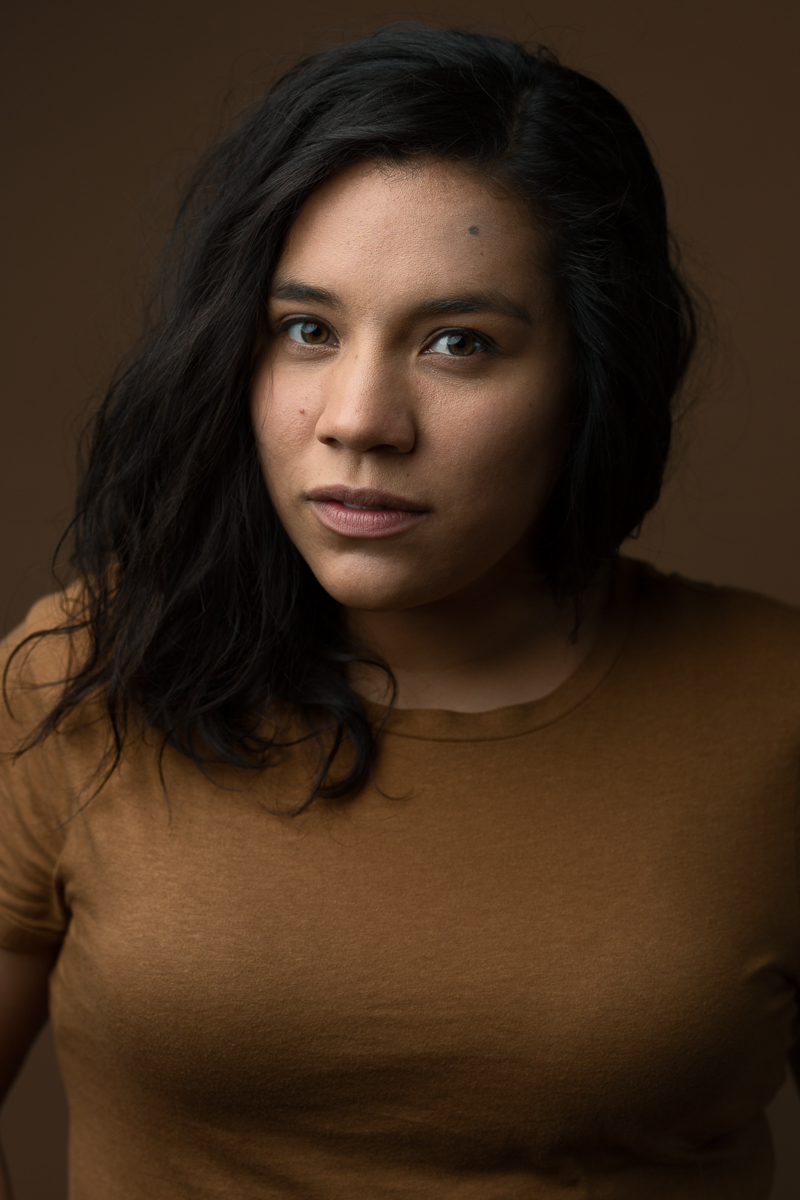
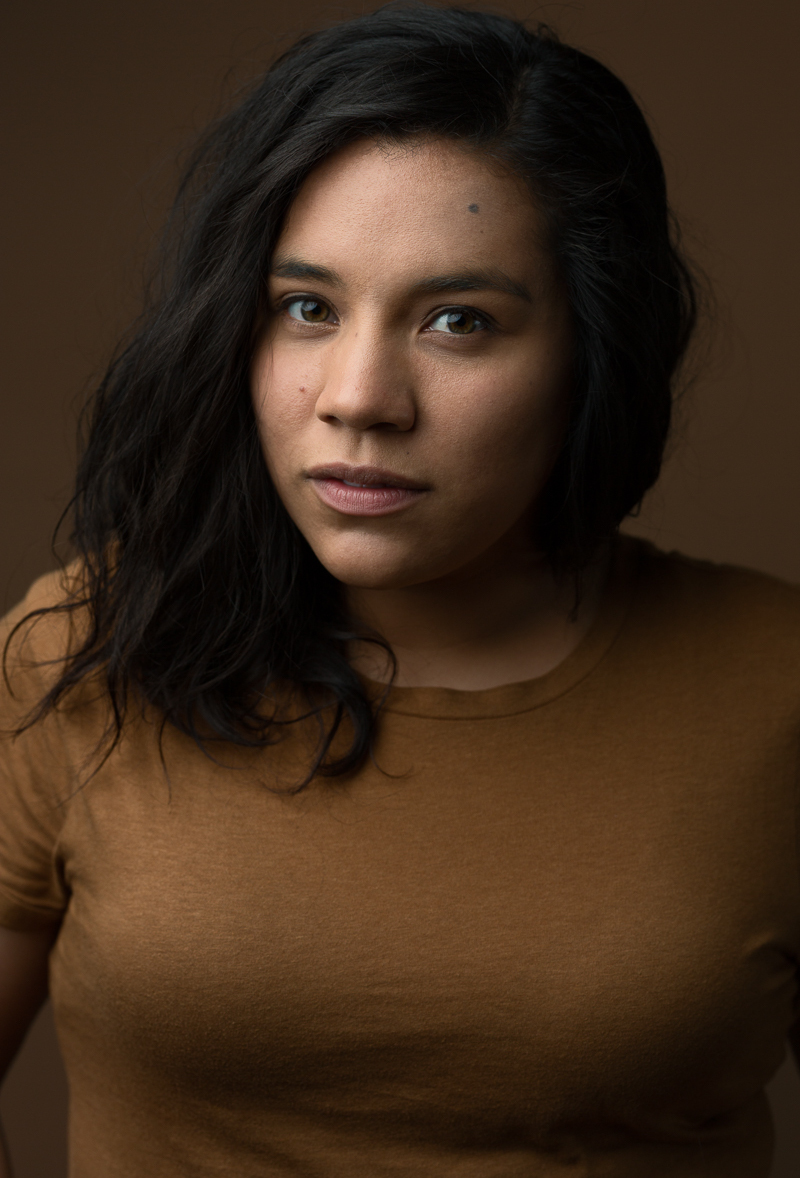
Adjusted image positions

diff --git a/_sass/_layout.scss b/_sass/_layout.scss
@@ -285,7 +285,7 @@ h1 {
         .headshot {
             background: url('/img/resume-header.jpg');
             background-size: cover;
-            background-position: center;
+            background-position: top;
             height: 100%;
             @include media-query(767px) {
                 height: 50%;
@@ -372,7 +372,7 @@ h1 {
         .headshot {
             background: url('/img/upcoming-header.jpg');
             background-size: cover;
-            background-position: center;
+            background-position: top;
             height: 100%;
             @include media-query(767px) {
                 height: 50%;
